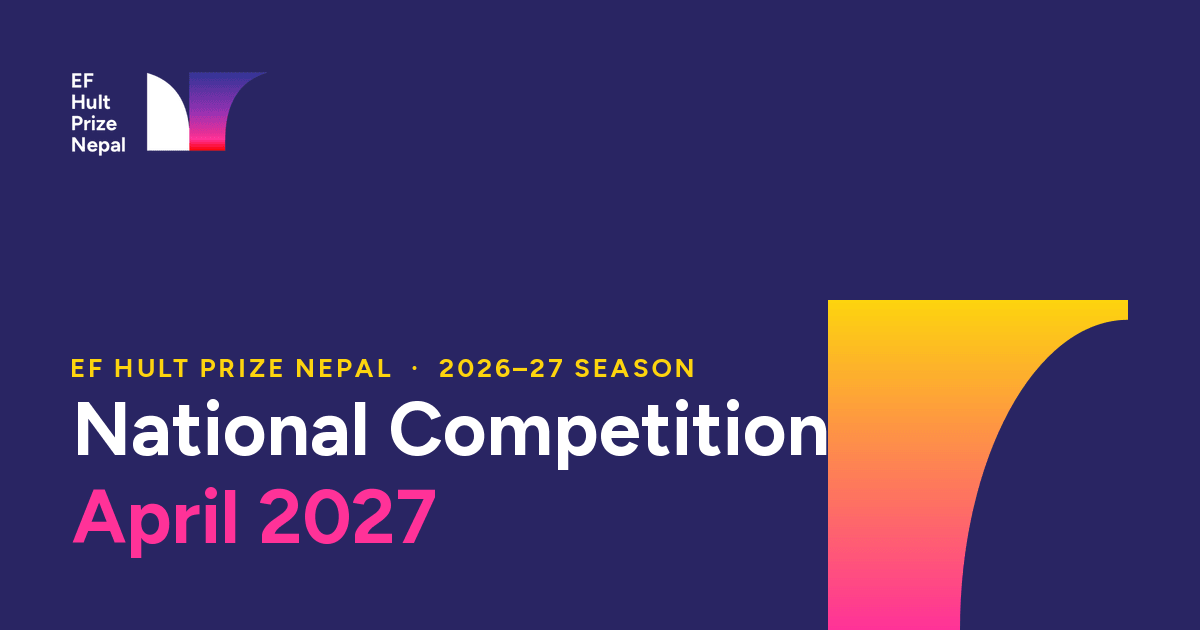
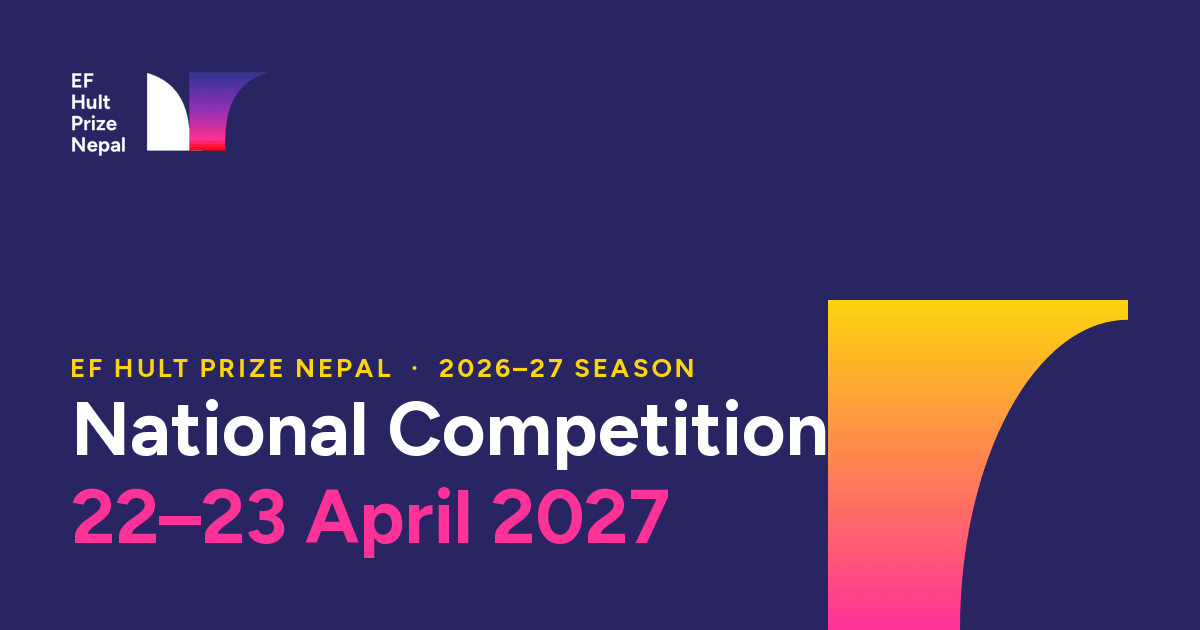
Set Nationals to 22-23 April 2027 and add an awards page
- National Competition is a two-day event on Thursday 22 and Friday
  23 April 2027, updated everywhere the old "last week of April" date
  appeared, including the share image and llms.txt.
- Nationals page: "Save the dates" block with both days, an Add to
  Google Calendar button and a downloadable .ics file, plus Event
  structured data for search engines.
- New /awards/ page: an honour roll of past national leaders, and an
  awards and nominations section that appears once entries are added
  to the honours list in src/data/site.ts. Linked from the footer and
  the Team page.

diff --git a/src/data/site.ts b/src/data/site.ts
@@ -4,7 +4,11 @@
 export const season = {
   name: '2026–27',
   challenge: 'Unlimited',
-  nationals: 'Last week of April 2027',
+  // Nepal National Competition: a two-day event.
+  nationals: '22–23 April 2027',
+  nationalsDays: 'Thursday 22 and Friday 23 April 2027',
+  nationalsStart: '2027-04-22',
+  nationalsEnd: '2027-04-23',
   // Qualifier rounds must finish before 15 February 2027 (countdown ends at the close of 14 Feb, Nepal time)
   qualifiersClose: '2027-02-14T23:59:59+05:45',
   qualifiersCloseLabel: '15 February 2027',
@@ -91,7 +95,7 @@ export const sdgs = [
 
 export const journey = [
   { n: '01', when: 'Sep 2026 – before 15 Feb 2027', title: 'Campus qualifiers', text: "Earn the right to represent your campus: win your college's OnCampus Program, or, if your college has none, apply for it through the Open Application and pass two online reviews.", now: true },
-  { n: '02', when: 'Last week of April 2027', title: 'Nepal Nationals', text: 'Qualified teams from across Nepal pitch at the National Competition. The winner represents Nepal.' },
+  { n: '02', when: '22–23 April 2027', title: 'Nepal Nationals', text: 'Over two days, qualified teams from across Nepal pitch at the National Competition. The winner represents Nepal.' },
   { n: '03', when: 'Jun – Jul 2027', title: 'Digital Incubator', text: 'National winners and top online applicants get world-class mentors to validate their market and build a proof of concept.' },
   { n: '04', when: 'Aug 2027', title: 'Global Accelerator', text: 'Selected teams spend a month of intensive mentoring at Ashridge House, outside London.' },
   { n: '05', when: 'Sep 2027', title: 'Global Finals', text: "The world's top student startups pitch for US$1,000,000 in seed funding." },
@@ -105,7 +109,7 @@ export const story = [
   { y: '2024', h: 'Nepal at the regional summit', t: "Kagaji Duniya from Little Angels' College of Management, which makes products from waste paper with workers with disabilities, is selected for the regional summit in Bangkok." },
   { y: 'May 2025', big: true, h: 'National Competition, AITM College', t: '48 teams and 148 students in Lalitpur, with AIESEC Nepal. Champion: Team Vayudristi, Saraswati Multiple Campus.' },
   { y: 'May 2026', big: true, h: "National Competition, St. Xavier's Jawalakhel", t: 'Presented by British Council Nepal: 46 teams, 160+ students from 45+ colleges, 14 judges. Champion: Team Fluxelle, Khwopa College of Engineering.' },
-  { y: '2026–27', h: 'The Unlimited season', t: 'A new national team, workshops on business models and pitching for qualified teams, and Nationals in the last week of April 2027.' },
+  { y: '2026–27', h: 'The Unlimited season', t: 'A new national team, workshops on business models and pitching for qualified teams, and a two-day National Competition on 22–23 April 2027.' },
 ];
 
 export const team = [
@@ -202,6 +206,21 @@ export const sources: [string, string][] = [
   ['B360: VAC wins at Purwanchal Campus (2022)', 'https://b360nepal.com/vac-bags-hult-prize-at-purwanchal-campus-with-job-search-portal-ideas/'],
 ];
 
+// ---------------------------------------------------------------------------
+// Awards and nominations (shown on /awards/).
+// One entry per award or nomination. The section stays hidden until there is at
+// least one entry. Example:
+// { season: '2026 season', award: 'Outstanding National Coordinator', name: 'Full Name',
+//   role: 'National Coordinator', result: 'Winner' }
+// For a Campus Director, add the college: campus: 'College name'.
+export interface Honour { season: string; award: string; name: string; role: string; campus?: string; result: 'Winner' | 'Nominee'; }
+export const honours: Honour[] = [];
+
+// Honour roll: everyone who has served in a national or campus leadership role,
+// by season. Past national leadership comes from pastLeadership above; add past
+// Campus Directors and other organizers here.
+export const pastCampusLeaders: { season: string; name: string; role: string; campus?: string }[] = [];
+
 // Campus Directors 2026–27: not yet appointed. Add people here once announced:
 // { name: 'Full Name', campus: 'College name', photo: 'file-name-in-assets-photos' }
 export const campusDirectors: { name: string; campus: string; photo?: string }[] = [];
@@ -212,7 +231,7 @@ export const cdRole = [
   ['Work with the college', 'Be the link to administration and a faculty supporter.'],
   ['Build the startups', 'Recruit teams from every department and connect them with mentors.'],
   ['Represent the campus', 'Join a national network of Campus Directors from 40+ campuses.'],
-  ['Send a team to Nationals', 'Your winning team pitches at the National Competition in April 2027.'],
+  ['Send a team to Nationals', 'Your winning team pitches at the two-day National Competition on 22–23 April 2027.'],
 ];
 
 export const workshops = [

diff --git a/src/styles/watermelon.css b/src/styles/watermelon.css
@@ -142,6 +142,29 @@ nav.main a { font-size: .74rem; font-weight: 700; letter-spacing: .14em; text-tr
 .marquee-track { display: flex; gap: 10px; width: max-content; }
 .marquee-track span { padding: 8px 14px; border: 1px solid var(--line); border-radius: 999px; background: rgba(255, 255, 255, .04); font-size: .82rem; font-weight: 600; white-space: nowrap; color: #fff; }
 
+/* ---------- Nationals: the two event days ---------- */
+.event-days { display: grid; grid-template-columns: 170px 170px minmax(0, 1fr); gap: 16px; align-items: center; }
+.event-days .day { display: grid; justify-items: center; gap: 2px; padding: 22px 12px; border-radius: var(--radius); background: var(--glass); border: 1px solid var(--line); text-align: center; }
+.event-days .day span { font-size: .72rem; font-weight: 700; letter-spacing: .16em; text-transform: uppercase; color: var(--heritage); }
+.event-days .day b { font-size: 4rem; font-weight: 700; line-height: 1; letter-spacing: -0.04em; color: var(--sun); font-variant-numeric: tabular-nums; }
+.event-days .day + .day b { color: var(--sky); }
+.event-days .day em { font-style: normal; font-size: 1.05rem; font-weight: 700; color: #fff; }
+.event-days .day small { font-size: .82rem; color: var(--muted); }
+.event-days .stack { padding-left: 16px; }
+
+/* ---------- Awards and honour roll ---------- */
+.award-season + .award-season { margin-top: 40px; }
+.award-season > .h3 { margin-bottom: 18px; color: var(--sun); }
+.card.award { padding-top: 30px; }
+.award-result { position: absolute; top: 16px; right: 16px; padding: 4px 12px; border-radius: 999px; font-size: .68rem; font-weight: 800; letter-spacing: .14em; text-transform: uppercase; }
+.card.award.won .award-result { background: var(--sun); color: var(--ink); }
+.card.award.nominated .award-result { border: 1px solid var(--line); color: var(--muted); }
+.card.award.won { border-color: rgba(253, 212, 14, .45); }
+.card.honour { grid-template-columns: 48px minmax(0, 1fr); align-items: center; gap: 16px; }
+.card.honour h4 { font-size: 1.15rem; font-weight: 700; }
+.card.honour p { margin-top: 2px; }
+.card.honour .mono { border-radius: 50%; }
+
 /* ---------- Rolling-digit counters ---------- */
 .odo { display: inline-flex; }
 .odo-d { display: inline-block; height: 1em; overflow: hidden; }
@@ -161,6 +184,8 @@ nav.main a { font-size: .74rem; font-weight: 700; letter-spacing: .14em; text-tr
   .deck-card:nth-child(4) { --x: 400px !important; }
 }
 @media (max-width: 960px) {
+  .event-days { grid-template-columns: repeat(2, minmax(0, 1fr)); }
+  .event-days .stack { grid-column: 1 / -1; padding-left: 0; }
   .bento { grid-template-columns: repeat(2, minmax(0, 1fr)); }
   .bento-card, .bento-card.b-wide { grid-column: span 1; }
   .bento-card.b-wide, .bento-card.b-full { grid-column: span 2; }

diff --git a/src/data/pages.ts b/src/data/pages.ts
@@ -64,6 +64,13 @@ export const pages = {
     blurb: 'The people leading Hult Prize Nepal this season.',
     share: ['Meet the 2027', 'national team'],
   },
+  awards: {
+    slug: 'awards', path: '/awards/', label: 'Awards',
+    title: 'Awards and Honours' + suffix,
+    description: 'Awards, nominations and an honour roll for the National Coordinators, Community Coordinators, Campus Directors and organizers of Hult Prize Nepal.',
+    blurb: 'Recognising the leaders who built Hult Prize in Nepal.',
+    share: ['Awards and', 'honours'],
+  },
   champions: {
     slug: 'champions', path: '/champions/', label: 'Champions',
     title: 'National Champions' + suffix,
@@ -88,9 +95,9 @@ export const pages = {
   nationals: {
     slug: 'nationals', path: '/nationals/', label: 'Nationals',
     title: 'National Competition 2027' + suffix,
-    description: 'The Hult Prize Nepal National Competition takes place in the last week of April 2027. See who qualifies, the workshops before it and what the winner gets.',
+    description: 'The Hult Prize Nepal National Competition is a two-day event on 22–23 April 2027. See who qualifies, the workshops before it and what the winner gets.',
     blurb: 'Who qualifies, the workshops before it and what comes after.',
-    share: ['National Competition', 'April 2027'],
+    share: ['National Competition', '22–23 April 2027'],
   },
   partners: {
     slug: 'partners', path: '/partners/', label: 'Partners',
@@ -144,7 +151,7 @@ export const primaryNav: PageKey[] = ['about', 'challenge', 'compete', 'nepal', 
 /** Footer columns. */
 export const footerNav: { heading: string; keys: PageKey[] }[] = [
   { heading: 'Compete', keys: ['challenge', 'compete', 'nationals', 'faq'] },
-  { heading: 'Hult Prize Nepal', keys: ['about', 'nepal', 'team', 'champions', 'gallery'] },
+  { heading: 'Hult Prize Nepal', keys: ['about', 'nepal', 'team', 'awards', 'champions', 'gallery'] },
   { heading: 'Get involved', keys: ['campuses', 'host', 'partners', 'contact'] },
 ];
 

diff --git a/src/lib/calendar.ts b/src/lib/calendar.ts
@@ -1,0 +1,42 @@
+// "Add to calendar" links for the Nepal National Competition, built from the
+// dates in src/data/site.ts so they always match the rest of the site.
+import { season } from '../data/site';
+
+const title = 'Hult Prize Nepal National Competition 2027';
+const details = 'The two-day Hult Prize Nepal National Competition. Qualified teams from campuses across Nepal pitch for the chance to represent Nepal. Details: https://efhultprizenepal.netlify.app/nationals/';
+const compact = (iso: string) => iso.replace(/-/g, '');
+
+/** The day after the last day, as calendars expect for all-day events. */
+const dayAfter = (iso: string) => {
+  const d = new Date(iso + 'T00:00:00Z');
+  d.setUTCDate(d.getUTCDate() + 1);
+  return d.toISOString().slice(0, 10);
+};
+
+/** Opens Google Calendar with the event filled in. */
+export const googleCalendarLink = () =>
+  'https://calendar.google.com/calendar/render?action=TEMPLATE' +
+  '&text=' + encodeURIComponent(title) +
+  '&dates=' + compact(season.nationalsStart) + '/' + compact(dayAfter(season.nationalsEnd)) +
+  '&details=' + encodeURIComponent(details) +
+  '&location=' + encodeURIComponent('Nepal');
+
+/** A standard .ics calendar file, for Apple Calendar, Outlook and others. */
+export const icsFile = (stamp: string) => [
+  'BEGIN:VCALENDAR',
+  'VERSION:2.0',
+  'PRODID:-//Hult Prize Nepal//Nationals//EN',
+  'CALSCALE:GREGORIAN',
+  'METHOD:PUBLISH',
+  'BEGIN:VEVENT',
+  'UID:nationals-2027@efhultprizenepal.netlify.app',
+  'DTSTAMP:' + stamp,
+  'DTSTART;VALUE=DATE:' + compact(season.nationalsStart),
+  'DTEND;VALUE=DATE:' + compact(dayAfter(season.nationalsEnd)),
+  'SUMMARY:' + title,
+  'DESCRIPTION:' + details.replace(/,/g, '\\,'),
+  'LOCATION:Nepal',
+  'END:VEVENT',
+  'END:VCALENDAR',
+  '',
+].join('\r\n');

diff --git a/src/pages/llms.txt.ts b/src/pages/llms.txt.ts
@@ -16,14 +16,14 @@ export const GET: APIRoute = ({ site }) => {
       `- Season: ${season.name}. Challenge: ${season.challenge} (any for-profit startup with measurable social impact that serves at least one UN Sustainable Development Goal).`,
       `- Who can enter: teams of 2 to 4 students, each 18 or older and enrolled in a degree program. Registration is free at ${season.register}`,
       `- Qualifier rounds (OnCampus Programs and the Open Application) must finish before ${season.qualifiersCloseLabel}.`,
-      `- National Competition: ${season.nationals}. The winner represents Nepal and joins the Hult Prize Digital Incubator.`,
+      `- National Competition: a two-day event on ${season.nationalsDays}. The winner represents Nepal and joins the Hult Prize Digital Incubator.`,
       `- Global prize: US$1,000,000 in seed funding for the winning team at the Global Finals.`,
       `- National champions: ${latest.map((c) => `${c.team}, ${c.college} (${c.y})`).join('; ')}.`,
       `- National team: ${team.map((p) => `${p.name} (${p.role})`).join('; ')}.`,
       `- Official global site: ${season.official}. Instagram: ${season.instagram}`,
     ].join('\n'),
     section('Compete', ['challenge', 'compete', 'nationals', 'faq']),
-    section('Hult Prize Nepal', ['home', 'about', 'nepal', 'team', 'champions', 'gallery']),
+    section('Hult Prize Nepal', ['home', 'about', 'nepal', 'team', 'awards', 'champions', 'gallery']),
     section('Get involved', ['campuses', 'host', 'partners', 'contact']),
     `## Common questions\n\n${faqs.map(([q, a]) => `- ${q} ${a}`).join('\n')}`,
     section('Optional', ['sources', 'legal']),

diff --git a/src/lib/schema.ts b/src/lib/schema.ts
@@ -93,6 +93,24 @@ export function teamSchema(site: URL) {
   }));
 }
 
+/** The National Competition as a schema.org Event, so search engines can show its dates. */
+export function nationalsEventSchema(site: URL) {
+  return {
+    '@type': 'Event',
+    '@id': abs(site, '/nationals/#event'),
+    name: 'Hult Prize Nepal National Competition 2027',
+    description: `The two-day Hult Prize Nepal National Competition, ${season.nationalsDays}. Qualified teams from campuses across Nepal pitch for the chance to represent Nepal in the EF Hult Prize.`,
+    startDate: season.nationalsStart,
+    endDate: season.nationalsEnd,
+    eventStatus: 'https://schema.org/EventScheduled',
+    eventAttendanceMode: 'https://schema.org/OfflineEventAttendanceMode',
+    location: { '@type': 'Place', name: 'Nepal', address: { '@type': 'PostalAddress', addressCountry: org.country } },
+    image: abs(site, '/og/nationals.png'),
+    url: abs(site, '/nationals/'),
+    organizer: { '@id': orgId(site) },
+  };
+}
+
 /** Serialise for a <script type="application/ld+json"> tag without letting content close the tag. */
 export const toJsonLd = (graph: unknown[]) =>
   JSON.stringify({ '@context': 'https://schema.org', '@graph': graph }).replace(/</g, '\\u003c');

diff --git a/src/pages/nationals-2027.ics.ts b/src/pages/nationals-2027.ics.ts
@@ -1,0 +1,10 @@
+// /nationals-2027.ics: the National Competition as a calendar file.
+import type { APIRoute } from 'astro';
+import { icsFile } from '../lib/calendar';
+
+export const GET: APIRoute = () => {
+  const stamp = new Date().toISOString().replace(/[-:]/g, '').replace(/\.\d+Z$/, 'Z');
+  return new Response(icsFile(stamp), {
+    headers: { 'Content-Type': 'text/calendar; charset=utf-8', 'Content-Disposition': 'attachment; filename="hult-prize-nepal-nationals-2027.ics"' },
+  });
+};

diff --git a/src/data/backdrops.ts b/src/data/backdrops.ts
@@ -12,6 +12,7 @@ export const backdrops: Record<string, string> = {
   nepal: 'event-hall',
   team: 'hpn-team',
   champions: 'g-trophy',
+  awards: 'global-celebrate',
   campuses: 'g-group',
   host: 'event-speaker',
   nationals: 'event-panelists',
